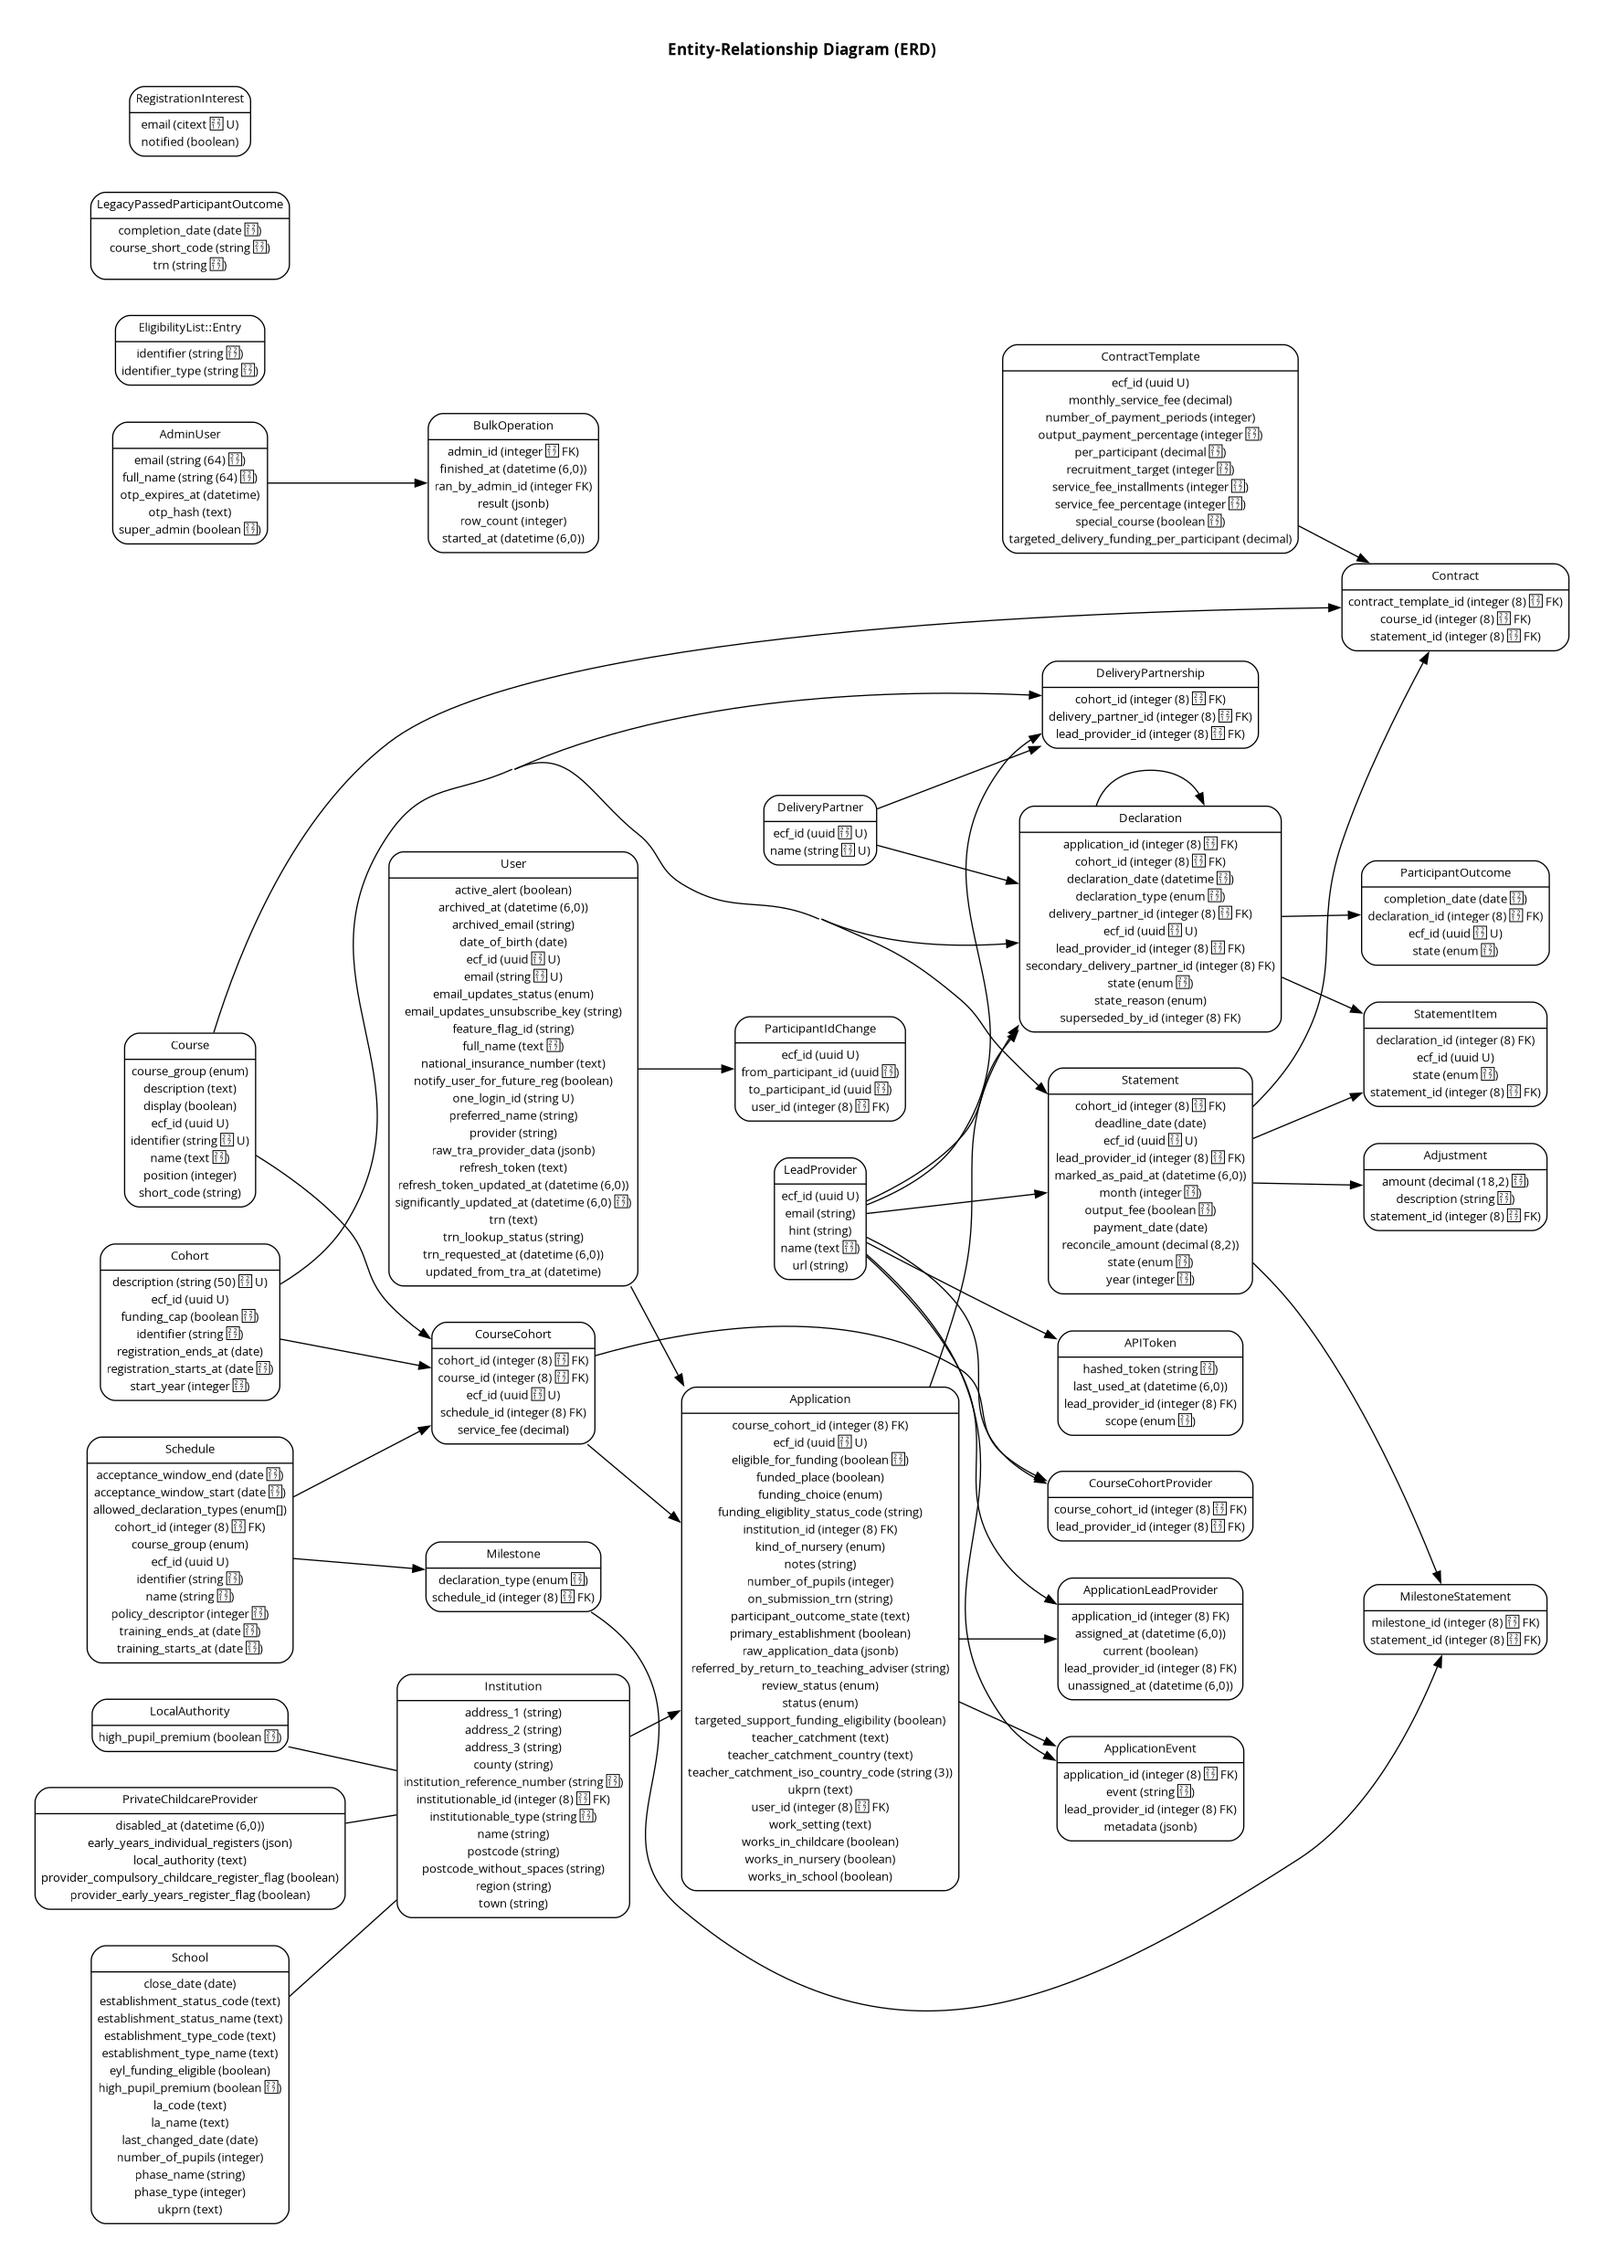
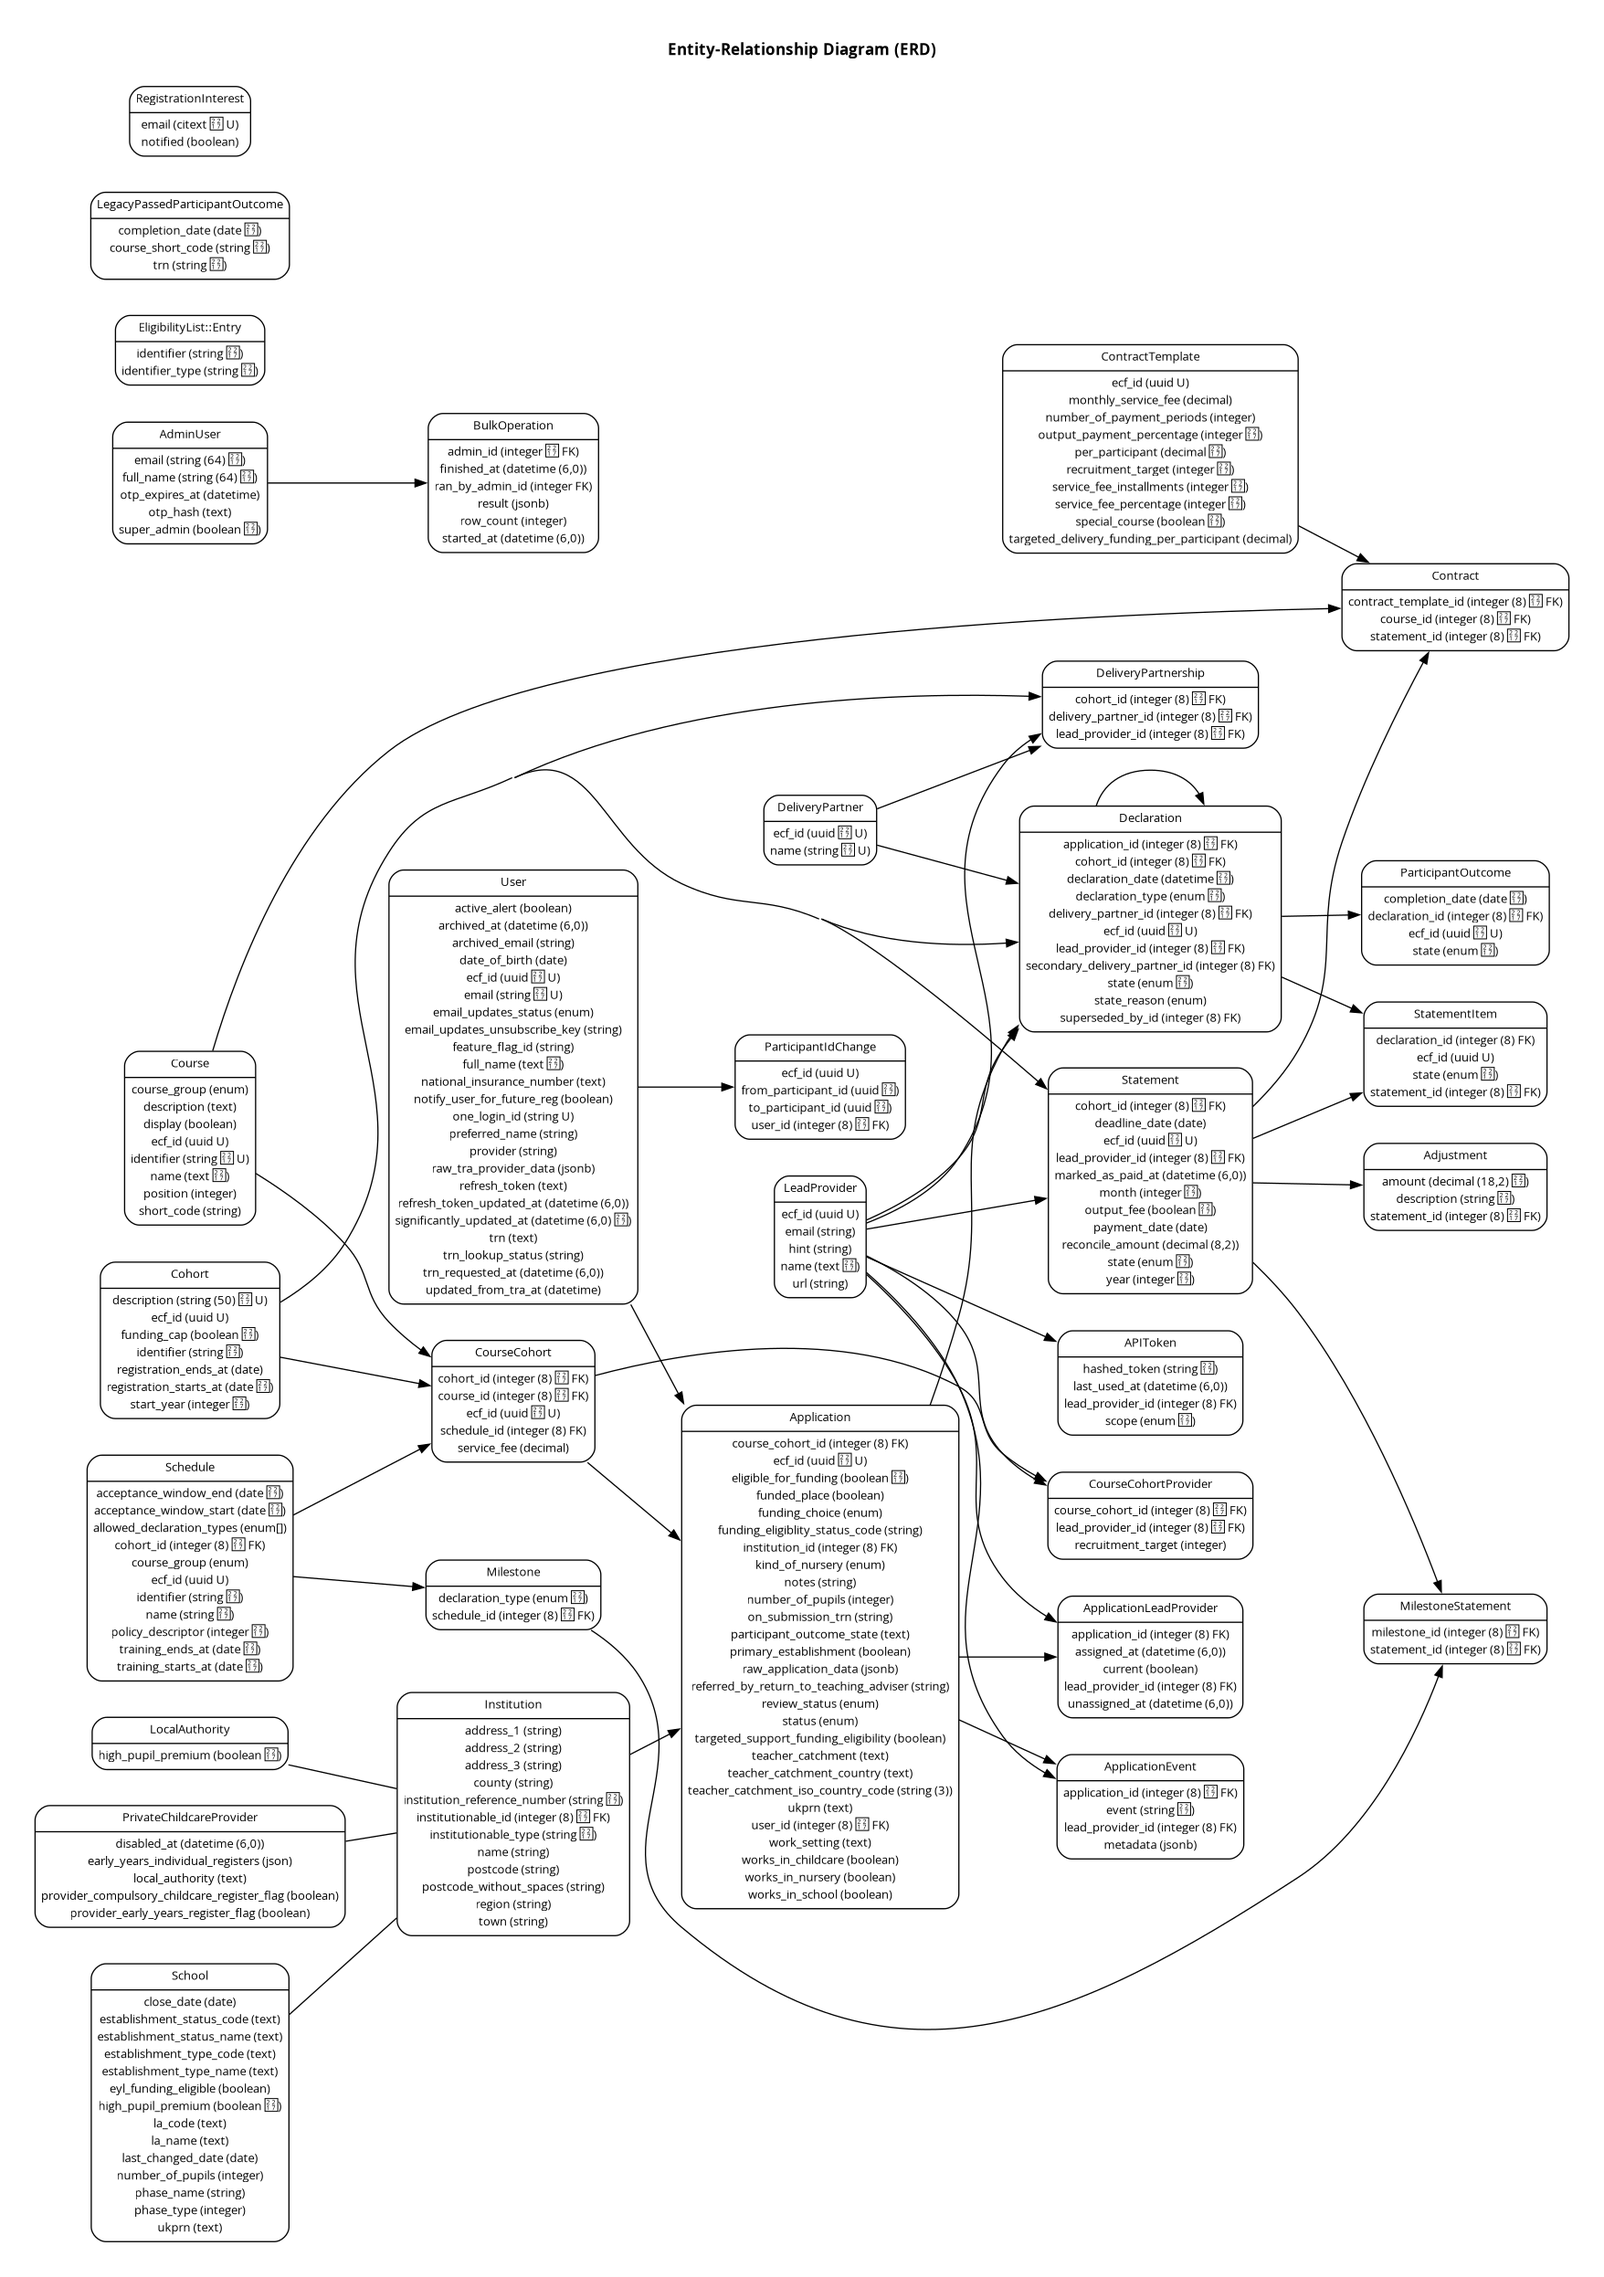
[608] Add recruitment_target field to CourseCohortProvider

diff --git a/db/schema.rb b/db/schema.rb
@@ -10,7 +10,7 @@
 #
 # It's strongly recommended that you check this file into your version control system.
 
-ActiveRecord::Schema[8.1].define(version: 2026_07_15_115642) do
+ActiveRecord::Schema[8.1].define(version: 2026_07_16_095648) do
   # These are extensions that must be enabled in order to support this database
   enable_extension "btree_gin"
   enable_extension "citext"
@@ -225,6 +225,7 @@ ActiveRecord::Schema[8.1].define(version: 2026_07_15_115642) do
     t.bigint "course_cohort_id", null: false
     t.datetime "created_at", null: false
     t.bigint "lead_provider_id", null: false
+    t.integer "recruitment_target"
     t.datetime "updated_at", null: false
     t.index ["course_cohort_id", "lead_provider_id"], name: "idx_on_course_cohort_id_lead_provider_id_3527d5c43f", unique: true
     t.index ["course_cohort_id"], name: "index_course_cohort_providers_on_course_cohort_id"

diff --git a/spec/models/course_cohort_provider_spec.rb b/spec/models/course_cohort_provider_spec.rb
@@ -1,0 +1,14 @@
+require "rails_helper"
+
+RSpec.describe CourseCohortProvider do
+  subject(:course_cohort_provider) { create(:course_cohort_provider) }
+
+  describe "relationships" do
+    it { is_expected.to belong_to(:course_cohort) }
+    it { is_expected.to belong_to(:lead_provider) }
+  end
+
+  describe "validations" do
+    it { is_expected.to validate_numericality_of(:recruitment_target).only_integer.is_greater_than_or_equal_to(0).allow_nil }
+  end
+end

diff --git a/app/models/course_cohort_provider.rb b/app/models/course_cohort_provider.rb
@@ -3,4 +3,5 @@ class CourseCohortProvider < ApplicationRecord
   belongs_to :lead_provider
 
   validates :course_cohort_id, uniqueness: { scope: :lead_provider_id }
+  validates :recruitment_target, numericality: { only_integer: true, greater_than_or_equal_to: 0 }, allow_nil: true
 end

diff --git a/db/migrate/20260716095648_add_recruitment_target_to_course_cohort_providers.rb b/db/migrate/20260716095648_add_recruitment_target_to_course_cohort_providers.rb
@@ -1,0 +1,5 @@
+class AddRecruitmentTargetToCourseCohortProviders < ActiveRecord::Migration[8.1]
+  def change
+    add_column :course_cohort_providers, :recruitment_target, :integer
+  end
+end

diff --git a/documentation/domain-model.md b/documentation/domain-model.md
@@ -102,6 +102,7 @@ erDiagram
     datetime created_at
     integer lead_provider_id
     datetime updated_at
+    integer recruitment_target
   }
   CourseCohortProvider }o--|| CourseCohort : belongs_to
   CourseCohortProvider }o--|| LeadProvider : belongs_to
